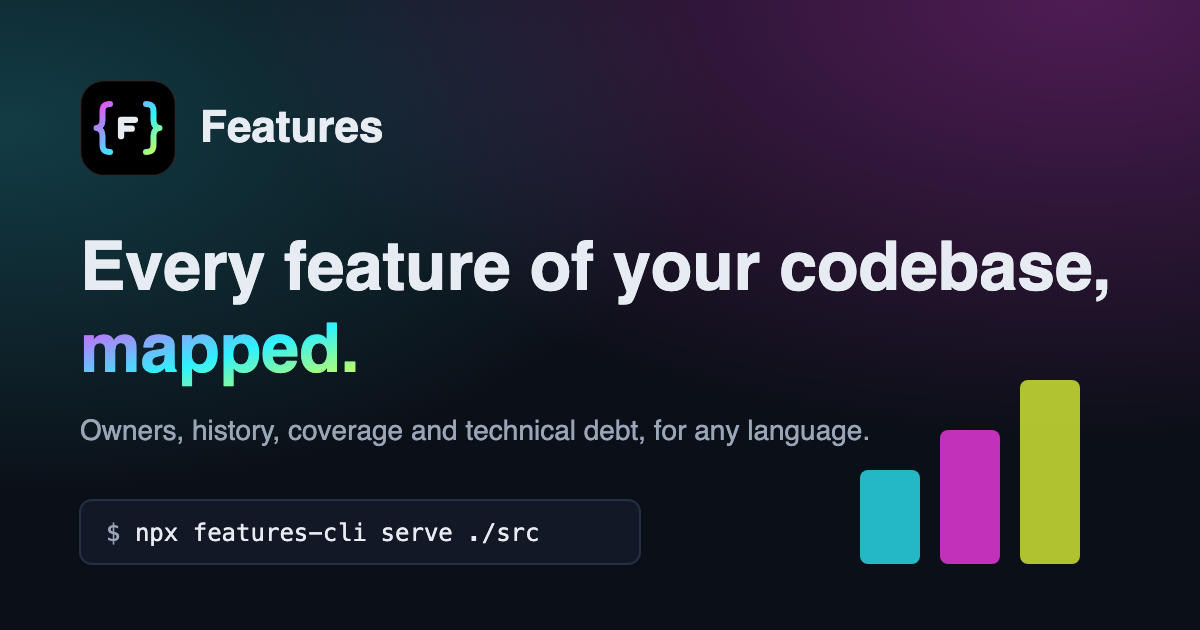
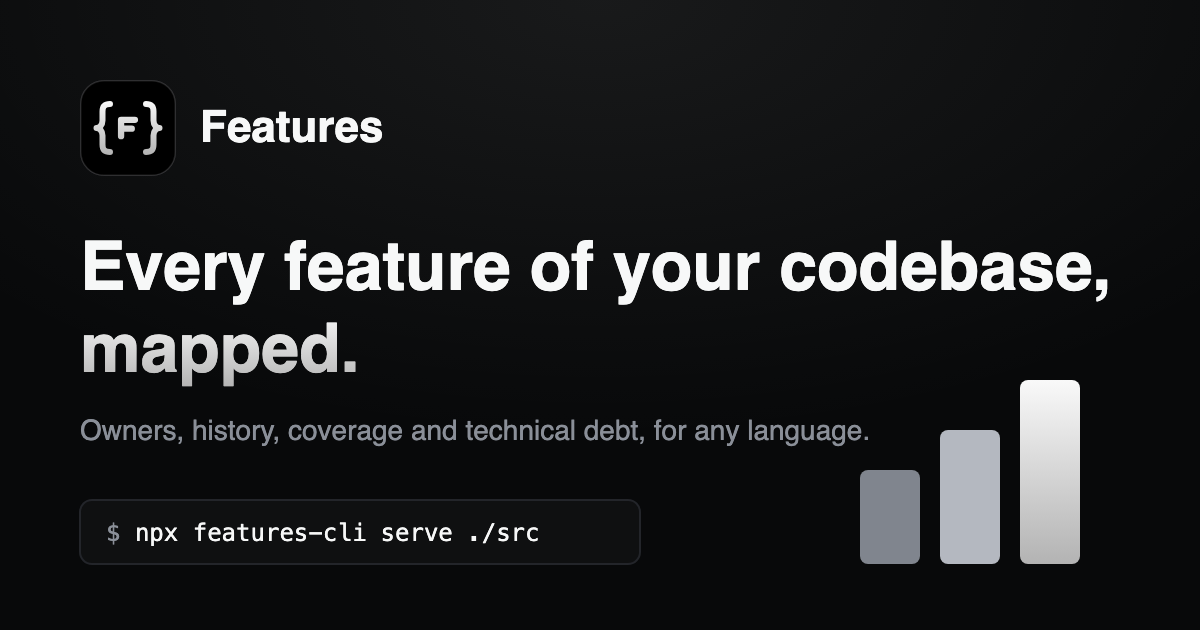
feat(brand): switch to a monochrome, Linear-style palette
The neon magenta/cyan/lime gradient read as too much rainbow. Move the
brand to near-black, off-white and grays with light falling from the top.

- Logo: flat #1A1A1D tile, gradient only on the braces and F
  (#F9F9F9 -> #B3B3B3), matching the tone of Linear's app icon.
- Website: replace the neon tokens with gray role tokens
  (accent, accent-2, accent-3), one faint top glow, and a gray
  text/brand gradient.
- Open Graph image restyled and og.png re-rendered.
- Spec saved in docs/specs/002-monochrome-brand-palette.md.

diff --git a/projects/website/src/styles/global.css b/projects/website/src/styles/global.css
@@ -2,15 +2,20 @@
 
 /* biome-ignore lint/suspicious/noUnknownAtRules: tailwind */
 @theme {
-  --color-ink: #0b0f17;
-  --color-surface: #121826;
-  --color-surface-2: #1a202c;
-  --color-line: #263044;
-  --color-text: #e7ecf3;
-  --color-muted: #9aa6b8;
-  --color-magenta: #ff3df2;
-  --color-cyan: #2ef2ff;
-  --color-lime: #e8ff3a;
+  /* Monochrome palette, in the spirit of Linear: near-black, off-white and grays. */
+  --color-ink: #08090a;
+  --color-surface: #0f1011;
+  --color-surface-2: #161718;
+  --color-line: #23252a;
+  --color-text: #f7f8f8;
+  --color-muted: #8a8f98;
+  /* Three gray levels replace the old neon trio for emphasis and data series. */
+  --color-accent: #edeef0;
+  --color-accent-2: #b4b8c0;
+  --color-accent-3: #80858e;
+  /* Same light falloff as the logo. */
+  --color-gradient-from: #f9f9f9;
+  --color-gradient-to: #b3b3b3;
   --font-sans:
     ui-sans-serif, system-ui, -apple-system, "Segoe UI", Roboto,
     "Helvetica Neue", Arial, sans-serif;
@@ -32,13 +37,8 @@ html {
 body {
   background:
     radial-gradient(
-      60rem 30rem at 85% -10%,
-      color-mix(in oklab, var(--color-magenta) 14%, transparent),
-      transparent 70%
-    ),
-    radial-gradient(
-      50rem 30rem at -10% 10%,
-      color-mix(in oklab, var(--color-cyan) 10%, transparent),
+      60rem 30rem at 50% -10%,
+      color-mix(in oklab, var(--color-text) 6%, transparent),
       transparent 70%
     ), var(--color-ink);
   background-repeat: no-repeat;
@@ -47,10 +47,9 @@ body {
 /* biome-ignore lint/suspicious/noUnknownAtRules: tailwind */
 @utility text-gradient {
   background-image: linear-gradient(
-    120deg,
-    var(--color-magenta),
-    var(--color-cyan) 55%,
-    var(--color-lime)
+    180deg,
+    var(--color-gradient-from),
+    var(--color-gradient-to)
   );
   background-clip: text;
   -webkit-background-clip: text;
@@ -60,10 +59,9 @@ body {
 /* biome-ignore lint/suspicious/noUnknownAtRules: tailwind */
 @utility bg-gradient-brand {
   background-image: linear-gradient(
-    120deg,
-    var(--color-magenta),
-    var(--color-cyan) 55%,
-    var(--color-lime)
+    180deg,
+    var(--color-gradient-from),
+    var(--color-gradient-to)
   );
 }
 
@@ -90,19 +88,19 @@ body {
 
 .prose-site a,
 a.link {
-  color: var(--color-cyan);
+  color: var(--color-accent);
   text-decoration: underline;
   text-underline-offset: 3px;
   text-decoration-color: color-mix(
     in oklab,
-    var(--color-cyan) 40%,
+    var(--color-accent) 40%,
     transparent
   );
 }
 
 .prose-site a:hover,
 a.link:hover {
-  text-decoration-color: var(--color-cyan);
+  text-decoration-color: var(--color-accent);
 }
 
 code:not(pre code) {
@@ -130,7 +128,7 @@ pre.astro-code {
 }
 
 :focus-visible {
-  outline: 2px solid var(--color-cyan);
+  outline: 2px solid var(--color-accent);
   outline-offset: 3px;
   border-radius: 4px;
 }

diff --git a/docs/specs/002-monochrome-brand-palette.md b/docs/specs/002-monochrome-brand-palette.md
@@ -1,0 +1,47 @@
+---
+status: implemented
+date: 2026-11-14
+---
+
+# Monochrome brand palette
+
+## Context
+
+The `{F}` logo and the website used a neon magenta → cyan → lime gradient that read as too much rainbow. The brand should feel modern and restrained, in the spirit of Linear and Vercel: near-black, off-white and grays, with light falling from the top instead of multiple hues.
+
+## Requirements
+
+- Logo (`projects/web/public/feature-icon.svg`, `projects/website/public/favicon.svg`, logo inside `projects/website/scripts/og.svg`):
+  - Flat dark tile `#1A1A1D` with a faint white edge; no gradient on the tile.
+  - Gradient only on the light parts (braces and F): `#F9F9F9` → `#B3B3B3`, top to bottom, matching the tone of Linear's app icon.
+  - Braces and F share one light falloff (the F has its own gradient in its scaled coordinates).
+- Website palette (`projects/website/src/styles/global.css`):
+
+  | Token | Value | Use |
+  | --- | --- | --- |
+  | `ink` | `#08090A` | page background |
+  | `surface` | `#0F1011` | cards |
+  | `surface-2` | `#161718` | raised elements, inline code |
+  | `line` | `#23252A` | borders |
+  | `text` | `#F7F8F8` | main text |
+  | `muted` | `#8A8F98` | secondary text |
+  | `accent` | `#EDEEF0` | emphasis, links, focus ring (was `cyan`) |
+  | `accent-2` | `#B4B8C0` | second emphasis / data series (was `magenta`) |
+  | `accent-3` | `#80858E` | third emphasis / data series (was `lime`) |
+  | `gradient-from` → `gradient-to` | `#F9F9F9` → `#B3B3B3` | `text-gradient`, `bg-gradient-brand` |
+
+- The two colored page glows are replaced by one faint off-white glow at the top.
+- The Open Graph image uses the same palette and `public/og.png` is re-rendered from `scripts/og.svg`.
+- macOS terminal traffic-light dots and the red "deleted" marker keep their colors.
+
+## Out of scope
+
+- The web dashboard theme (`projects/web`) beyond its favicon/logo.
+- Dashboard screenshots embedded in the website.
+
+## Plan
+
+1. Recolor the logo SVGs and the OG logo block.
+2. Replace the neon tokens with role-named gray tokens and rename the `cyan`/`magenta`/`lime` utilities to `accent`/`accent-2`/`accent-3`.
+3. Restyle `og.svg` and re-render `og.png`.
+4. Build the website and check every page visually.
